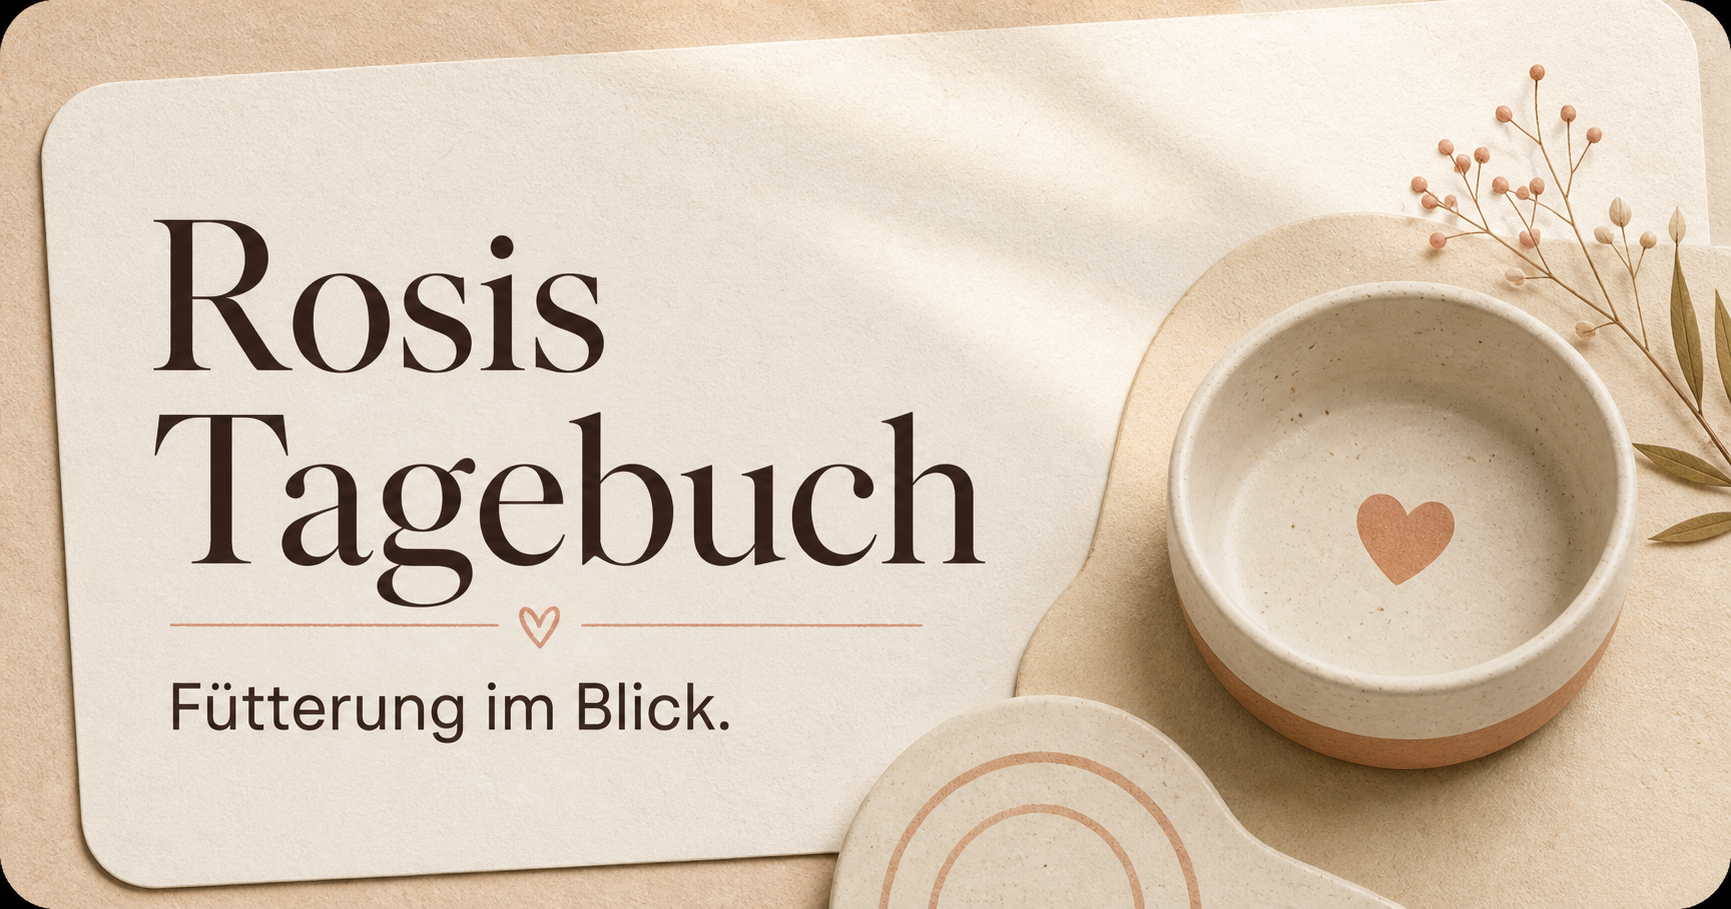
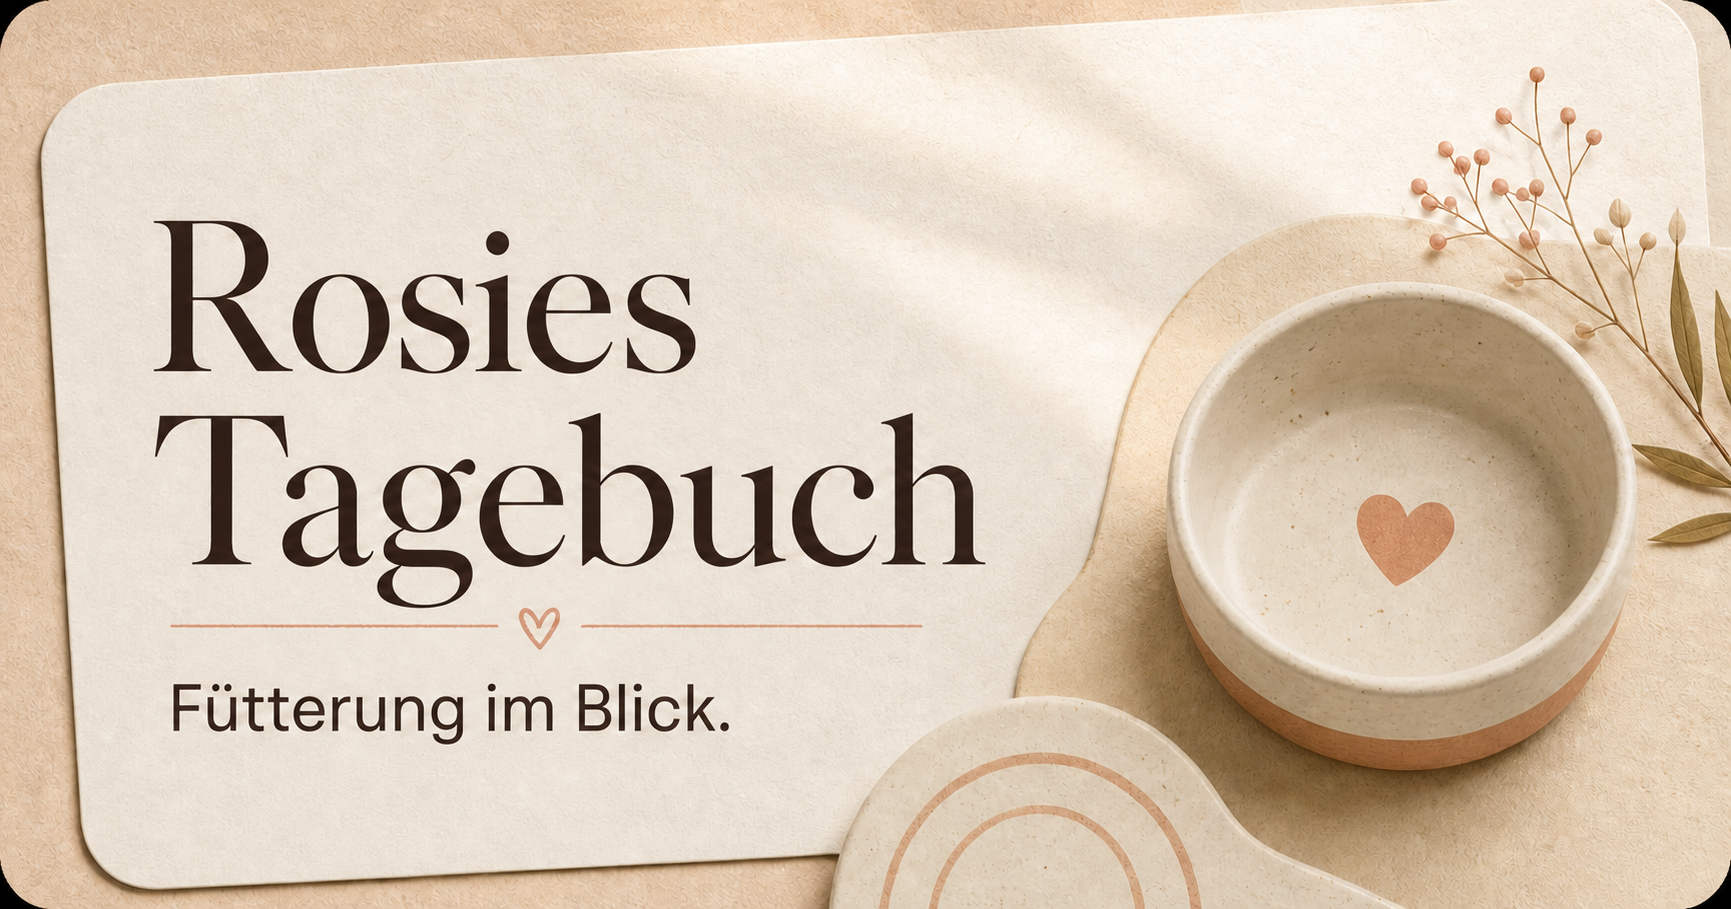
Correct Rosie spelling in visible copy

diff --git a/app/FeedingApp.tsx b/app/FeedingApp.tsx
@@ -165,7 +165,7 @@ export function FeedingApp({ displayName }: Props) {
     <main className="app-shell">
       <header className="topbar">
         <div>
-          <p className="eyebrow">Rosis Tagebuch</p>
+          <p className="eyebrow">Rosies Tagebuch</p>
           <h1>Fütterung</h1>
         </div>
         <div className="account-chip" title={`Angemeldet als ${displayName}`}>
@@ -177,7 +177,7 @@ export function FeedingApp({ displayName }: Props) {
         <div>
           <p className="date-kicker">{isToday ? "Heute" : state?.day?.virtual ? "Vorschau" : "Tagebuch"}</p>
           <h2 id="day-title">{selectedLabel}</h2>
-          <p className="day-subline">{isToday ? "Ein ruhiger Blick auf Rosis Tag." : "Plan und Einträge dieses Tages."}</p>
+          <p className="day-subline">{isToday ? "Ein ruhiger Blick auf Rosies Tag." : "Plan und Einträge dieses Tages."}</p>
         </div>
         <div className="date-controls" aria-label="Tag auswählen">
           <button className="icon-button" type="button" onClick={() => moveDay(-1)} aria-label="Vorheriger Tag">←</button>
@@ -806,7 +806,7 @@ function SettingsDialog({
 }
 
 function LoadingDay() {
-  return <section className="loading-card" aria-live="polite"><span className="loading-pulse" /> Rosis Fütterung wird geladen …</section>;
+  return <section className="loading-card" aria-live="polite"><span className="loading-pulse" /> Rosies Fütterung wird geladen …</section>;
 }
 
 function localDate() {

diff --git a/app/layout.tsx b/app/layout.tsx
@@ -13,21 +13,21 @@ export async function generateMetadata(): Promise<Metadata> {
   const protocol = requestHeaders.get("x-forwarded-proto") ?? "https";
   const host = requestHeaders.get("x-forwarded-host") ?? requestHeaders.get("host") ?? "localhost";
   const imageUrl = `${protocol}://${host}/og.png`;
-  const title = "Rosis Tagebuch · Fütterung";
-  const description = "Rosis privates Fütterungstagebuch mit Tagesplan und dauerhaftem Verlauf.";
+  const title = "Rosies Tagebuch · Fütterung";
+  const description = "Rosies privates Fütterungstagebuch mit Tagesplan und dauerhaftem Verlauf.";
   return {
     title,
     description,
     icons: { icon: "/favicon.svg", shortcut: "/favicon.svg" },
     openGraph: {
-      title: "Rosis Tagebuch",
+      title: "Rosies Tagebuch",
       description,
       type: "website",
-      images: [{ url: imageUrl, width: 1731, height: 909, alt: "Rosis Tagebuch – Fütterung im Blick" }],
+      images: [{ url: imageUrl, width: 1731, height: 909, alt: "Rosies Tagebuch – Fütterung im Blick" }],
     },
     twitter: {
       card: "summary_large_image",
-      title: "Rosis Tagebuch",
+      title: "Rosies Tagebuch",
       description,
       images: [imageUrl],
     },

diff --git a/README.md b/README.md
@@ -1,6 +1,6 @@
-# Rosis Tagebuch
+# Rosies Tagebuch
 
-Private ChatGPT-Sites-App für Rosis Fütterungsplanung und Tageshistorie.
+Private ChatGPT-Sites-App für Rosies Fütterungsplanung und Tageshistorie.
 
 ## Prerequisites
 
